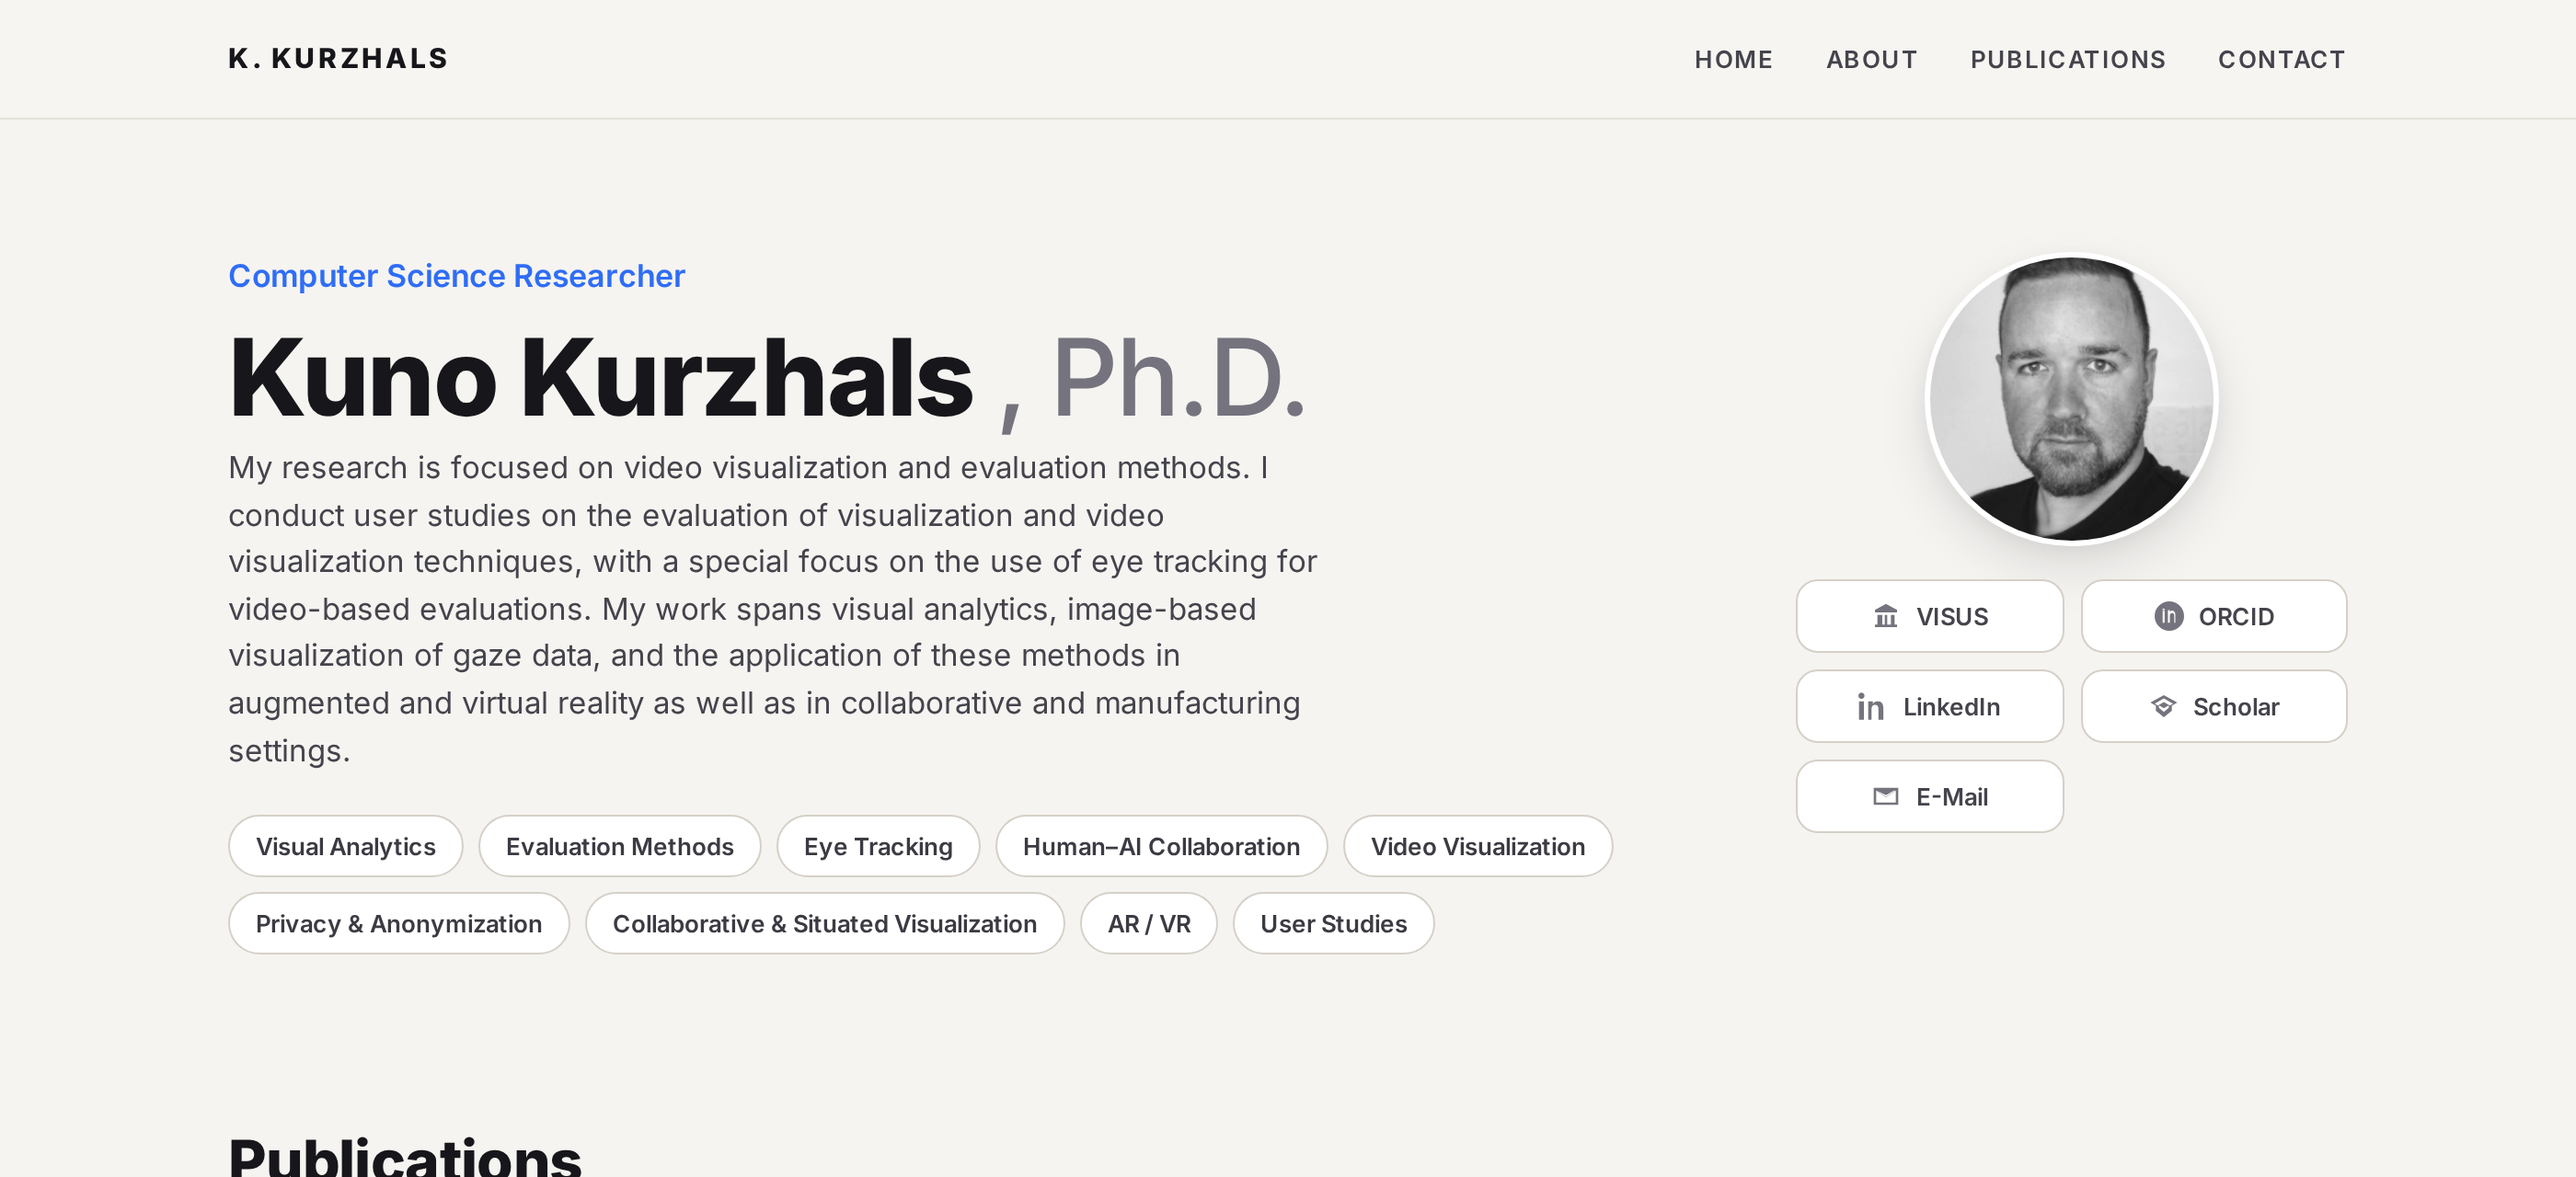
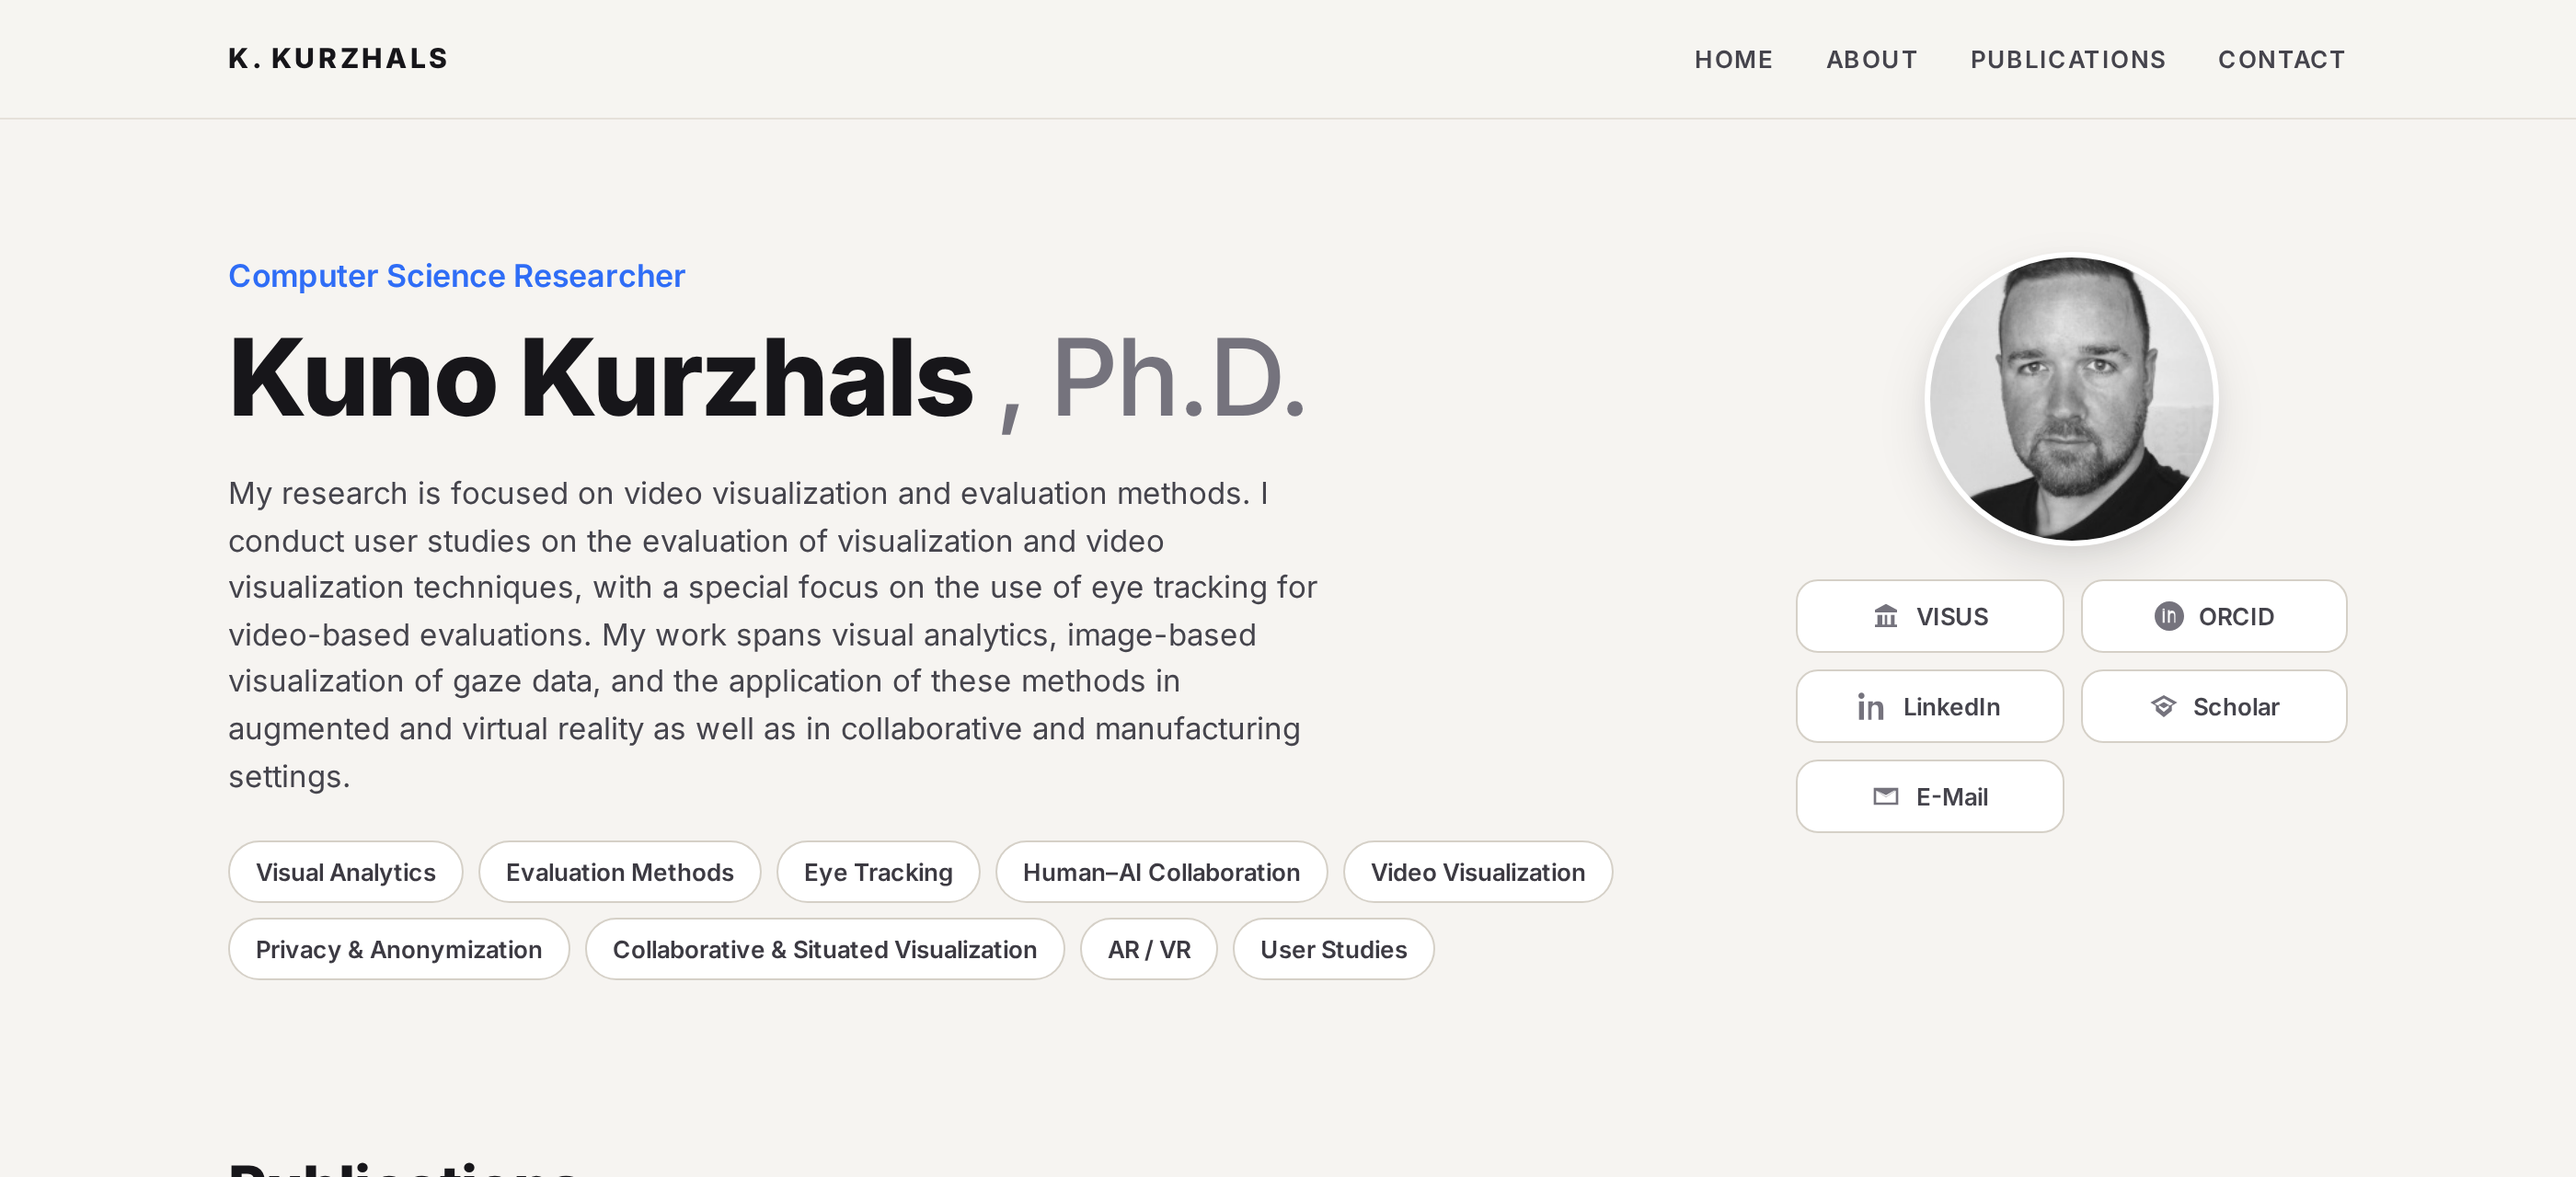
Add more space below the name in the hero

Changed region(s): [[0.0932, 0.375, 0.6214, 0.8125], [0.0932, 0.9688, 0.2486, 1.0]]

diff --git a/css/style.css b/css/style.css
@@ -94,7 +94,7 @@ a { color: inherit; }
 }
 
 .hero h1 {
-  margin: 0 0 6px;
+  margin: 0 0 20px;
   font-size: clamp(38px, 5.4vw, 58px);
   font-weight: 800;
   line-height: 1.05;
